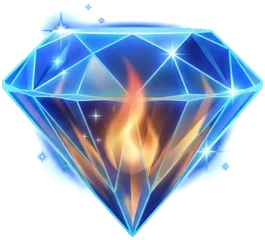
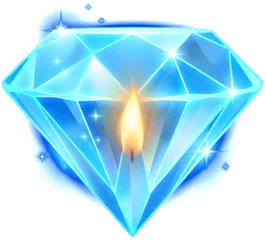
## Diamond ab saaf aur chamakdaar hai, andar ki kaalapan hat gaya Pehle aag ki wajah se diamond ke andar kuch hisse bhoore-kaale lag rahe the. Ab diamond saaf, chamakta crystal-blue hai, aur beech mein ek chhoti pyaari sunehri lau jalti hai, jaise diya. Lau ab bhi halke se tim-timaati hai. Maine Hom
- **Kya badla:** andar se saare kaale aur bhoore hisse hata diye, neela rang thoda aur gehra kiya, aur badi aag ki jagah ek saaf chhoti lau lagayi.
- **Size:** dono photo milakar sirf 38KB, isliye 20MB ki limit par koi asar nahi.

Aapne "60%" likha tha. Agar aapka matlab tha ki aag 60% chhoti ya halki ho, to bataiye, main lau ko utna kar dunga.

**Abhi baaki:**
- Account delete ke liye PIN-login backend ka GitHub link
- Video ZIP download check karna
- Signed APK 20MB se kam hai ya nahi

- **Rank Page Design:** Build the real Rank screen showing each student's All India series position and best day
- **Account Deletion:** Add account delete for Play Store using the PIN-login backend repo link you share
- **Tap Burst:** Make the diamond's flame flare up brightly for a moment whenever Rapid Fire is tapped
- **Loading Polish:** Add premium skeleton cards while loading plus smooth press animations across Home and My Tests

App ko store tak le jaane ke liye:

Note:
- Once you deploy your app to production, you can generate iOS and Android builds. Post which, you can publish your app to App/Play store.
- For iOS builds: you need an Apple developer account. Upon logging in, you can generate a build, submit it to TestFlight, and test the app on a real iOS device.
- For Android builds: we provide .APK and .AAB files for your application, which enable you to test your app on a real Android device.
[…]

diff --git a/memory/PRD.md b/memory/PRD.md
@@ -3,7 +3,7 @@
 ## Latest iteration60 + follow-up — CRED polish, Rank tab, 2×2 practice grid, tablet player, royal maroon / royal-blue glass
 - User asks (Hinglish): fix all iter59 items; All India card "thoda better, kafi casual hai"; 4 practice tiles bigger in a 2×2 grid; replace JEE Main tab with Rank (feature to be built later); then tablet test screen. Follow-up: exam names in royal maroon matte so they show clearly; Rapid Fire dock button royal blue with a CRED-style glass look (ref: green "unclaimed reward" pill). Rapid Fire screens untouched.
 - Home: HomeSeriesCard is onyx→ruby gradient + SVG radial red glow (explicit stopOpacity) + hairline sheen, live chip, 3-column facts strip (75 questions | 180 minutes | +4/−1), bigger ring, glowing red CTA. `ExamGrid` (HomeParts) replaces the rail: 2×2 tiles 168px (150 under 360px), exam names heavy royal maroon `custom_royalMaroon #7A1F35`, value muted. PromoBanner hides "200+" under 360px, CTA 44px. Footer watermark aria-hidden. ExamHub title is maroon too (ScreenHeader `titleColor`).
-- Tabs: HOME, RANK (podium glyph), RAPID FIRE, MY TESTS, MISSION; `app/(tabs)/jee.tsx` deleted, `rank.tsx` is an honest "coming soon" placeholder (no fake ranks) with links to /live and My Tests → Completed. Rapid Fire dock button is now a sparkly blue diamond with a soft fire inside that flickers (`RapidGem` in tabs layout cross-fades `rapid-gem.webp` and `rapid-gem-flicker.webp`, same diamond with differently shaped flames, Reanimated loop, off under reduce-motion; 265×240, ~21KB each, transparent; fire added with Gemini image edit of the blue diamond; made with Gemini 3 Pro Image on black, alpha from the cyan outline silhouette + soft glow) rising out of the dock (66×60, 57×52 under 360px, scale 1.08 when focused); unfocused label ice blue `custom_gemBlue #8CC4FF`. History: royal-blue glass capsule → winged ruby diamond → blue diamond (user requests). Labels 10.5px (10 under 360). iOS NativeTabs: rank trigger, red tint.
+- Tabs: HOME, RANK (podium glyph), RAPID FIRE, MY TESTS, MISSION; `app/(tabs)/jee.tsx` deleted, `rank.tsx` is an honest "coming soon" placeholder (no fake ranks) with links to /live and My Tests → Completed. Rapid Fire dock button is now a clean, bright crystal-blue diamond with a small golden candle-like flame inside that flickers (no dark/muddy areas, after user feedback "fire ke karan blackish lag rha") (`RapidGem` in tabs layout cross-fades `rapid-gem.webp` and `rapid-gem-flicker.webp`, same diamond with differently sized flames (outline IoU 0.999), Reanimated loop, off under reduce-motion; 265×240, ~19KB each, transparent; made with a Gemini image edit of the blue diamond plus a blue saturation boost; made with Gemini 3 Pro Image on black, alpha from the cyan outline silhouette + soft glow) rising out of the dock (66×60, 57×52 under 360px, scale 1.08 when focused); unfocused label ice blue `custom_gemBlue #8CC4FF`. History: royal-blue glass capsule → winged ruby diamond → blue diamond (user requests). Labels 10.5px (10 under 360). iOS NativeTabs: rank trigger, red tint.
 - iter59 fixes: contrast (pyq subtitle, /live skipped + lock icons, `custom_eyebrow` now #74747E ≈4.6:1), set-detail eyebrow wraps + internal source line hidden, black selection everywhere (chapter chips, solutions subject tabs, My Tests exam chips + divider, player options/integer input), score colours (negative red, zero ink, positive green; preparing amber), catalogue count spacing, web search focus outline removed (`noOutline`), DayMap hitSlop, white splash with dark wordmark (app.json splash bg #FFFFFF; adaptive icon unchanged).
 - Player tablet layout: ≥600px centred 760px column/dock; ≥900px right side panel (360px) with legend + palette (`side-q-*`), Palette button hidden. Orientation stays portrait in app.json (Android 16 large screens may rotate anyway; layout adapts by width).
 - Testing: iteration_60 frontend PASS for all items (player verified with a browser-only fake attempt; no academic writes). Follow-up legend truncation fixed; maroon/glass verified by screenshots 390/320.
